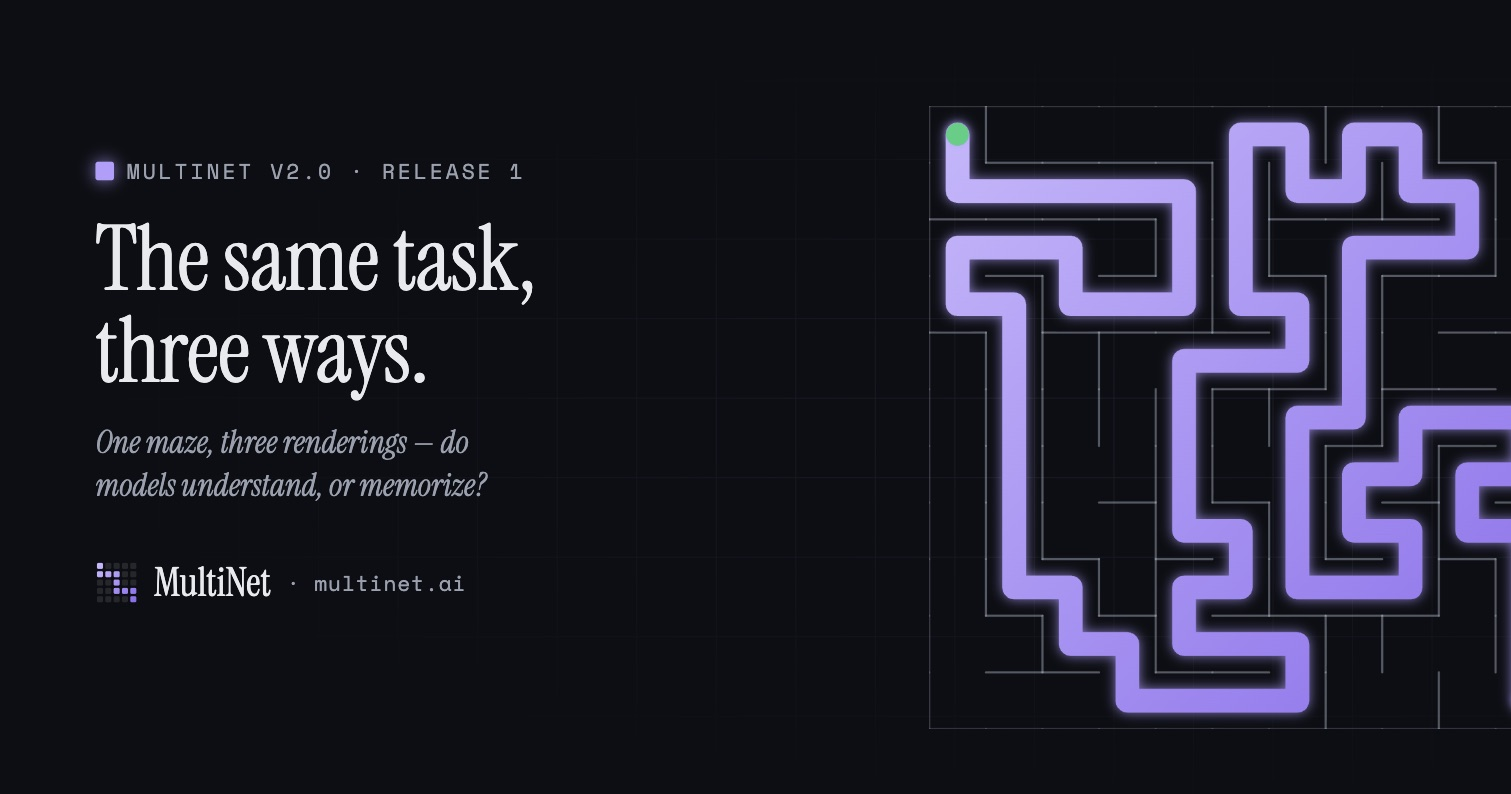
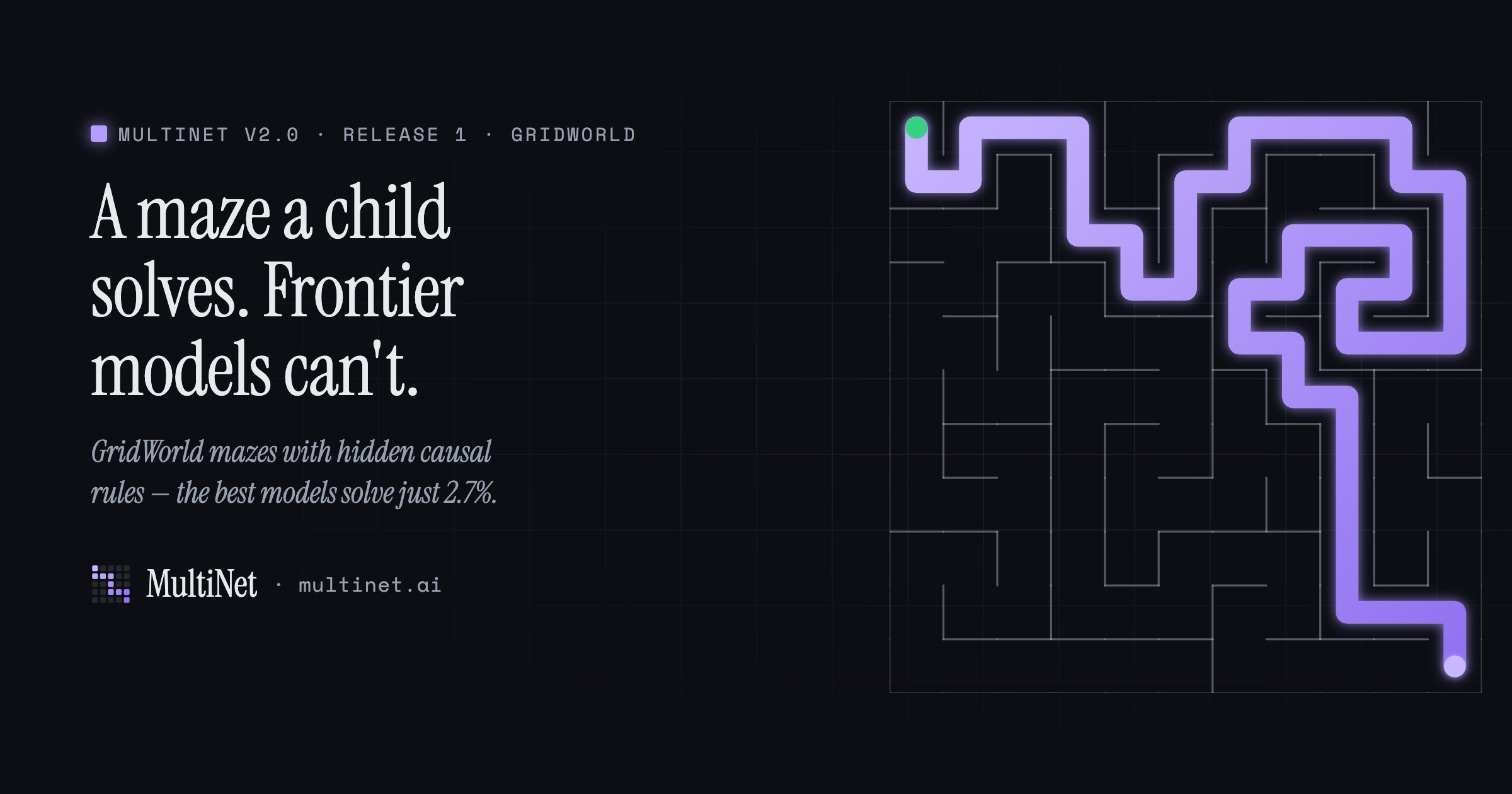
Content changes

diff --git a/index.html b/index.html
@@ -24,20 +24,20 @@
   <meta name="viewport" content="width=device-width, initial-scale=1">
 
   <!-- Social / OG -->
-  <meta name="description" content="MultiNet v2.0 is an open benchmark that renders the same task across a grid, natural language, and 3D — measuring whether models understand a task or just memorized one interface.">
-  <meta property="og:title" content="MultiNet v2.0 — The same task, three ways"/>
-  <meta property="og:description" content="An open benchmark for multimodal, long-horizon, cross-domain action. The same maze, rendered three ways — and frontier models fall apart."/>
+  <meta name="description" content="MultiNet v2.0 Release 1: frontier models solve just 4% of simple GridWorld mazes — puzzles that reward spatial reasoning, causal understanding, and long-horizon planning.">
+  <meta property="og:title" content="MultiNet v2.0 · Release 1 — a maze a child solves, frontier models can't"/>
+  <meta property="og:description" content="In Release 1, frontier models solve just 4% of simple GridWorld mazes a child breezes through — an open benchmark for long-horizon, causal, spatial reasoning."/>
   <meta property="og:url" content="https://multinet.ai/"/>
   <meta property="og:image" content="https://multinet.ai/static/images/og-multinet-v2.jpg"/>
   <meta property="og:image:width" content="1200"/>
   <meta property="og:image:height" content="630"/>
-  <meta name="twitter:title" content="MultiNet v2.0 — The same task, three ways">
-  <meta name="twitter:description" content="An open benchmark for multimodal, long-horizon, cross-domain action. The same maze, rendered three ways — and frontier models fall apart.">
+  <meta name="twitter:title" content="MultiNet v2.0 · Release 1 — a maze a child solves, frontier models can't">
+  <meta name="twitter:description" content="In Release 1, frontier models solve just 4% of simple GridWorld mazes a child breezes through — an open benchmark for long-horizon, causal, spatial reasoning.">
   <meta name="twitter:image" content="https://multinet.ai/static/images/og-multinet-v2.jpg">
   <meta name="twitter:card" content="summary_large_image">
   <meta name="keywords" content="MultiNet, benchmark, multimodal, cross-domain, action models, VLA, VLM, evaluation, generalization, maze, causal reasoning">
 
-  <title>MultiNet v2.0 — The same task, three ways</title>
+  <title>MultiNet v2.0 — Release 1</title>
   <link rel="icon" type="image/png" href="/static/images/favicon-maze.png">
   <link rel="stylesheet" href="/static/css/mn-v2.css">
 </head>
@@ -48,14 +48,14 @@
   <!-- ============================ HERO ============================ -->
   <header class="mn-hero">
     <div class="mn-hero__inner">
-      <p class="mn-tag">MultiNet v2.0 · Release 1</p>
-      <h1 style="max-width:16ch;margin-top:.3em">The same task, three ways — and frontier models fall apart.</h1>
-      <p class="mn-prose" style="margin-top:.2em"><span style="color:var(--mn-text)">A maze a child solves in seconds.</span> MultiNet renders the identical task across a grid, natural language, and 3D — then measures whether a model actually understands the task, or just memorized one way of seeing it.</p>
+      <p class="mn-tag">MultiNet v2.0 · Release 1 — GridWorld</p>
+      <h1 style="max-width:15ch;margin-top:.3em">A maze a child solves in seconds. Frontier models can't.</h1>
+      <p class="mn-prose" style="margin-top:.2em">Release 1 drops frontier models into <span style="color:var(--mn-text)">GridWorld</span> — symbolic mazes with hidden causal rules that reward real spatial reasoning and long-horizon planning. Puzzles people breeze through, and the strongest models solve just 4 of 150.</p>
 
       <div class="mn-stat">
-        <p class="mn-eyebrow">Frontier models solve just</p>
-        <div class="mn-stat__num">24%</div>
-        <p class="mn-eyebrow">of these mazes &middot; illustrative placeholder — the real R1 figure lands on release</p>
+        <p class="mn-eyebrow">Frontier models score just</p>
+        <div class="mn-stat__num mn-countup" data-to="2.7" data-decimals="1" data-suffix="%">0.0%</div>
+        <p class="mn-eyebrow">on Release 1's GridWorld mazes</p>
       </div>
 
       <div style="display:flex;gap:12px;margin:26px 0 22px;flex-wrap:wrap">
@@ -70,6 +70,12 @@
         <a href="#">[ Play the Maze ]</a>
         <a href="#cite">[ Cite ]</a>
       </div>
+
+      <div class="mn-reel" style="margin-top:38px">
+        <div class="mn-reel__play"></div>
+        <p class="mn-tag is-red" style="margin:0">Failure replay reel</p>
+        <p style="max-width:46ch;margin:0;color:var(--mn-text-dim)">Frontier models failing R1 mazes in revealing ways — the reel lands with the release.</p>
+      </div>
     </div>
   </header>
 
@@ -77,30 +83,29 @@
   <section class="mn-section">
     <div class="mn-container mn-reveal">
       <div class="mn-sec-head">
-        <p class="mn-tag is-blue">Benchmark · v2.0</p>
-        <h2>One task. Three renderings. Nowhere to hide.</h2>
-        <p class="mn-lead">Every problem in MultiNet v2.0 is the same underlying maze — with hidden causal mechanisms a model must discover to solve it. We render that maze across three interfaces. A model that truly understands the task should solve all three; a model leaning on a memorized format solves one and collapses on the rest.</p>
+        <p class="mn-tag is-blue">Release 1 · GridWorld</p>
+        <h2>Simple mazes. Hidden rules.</h2>
+        <p class="mn-lead">Each R1 maze is a GridWorld puzzle governed by hidden causal mechanisms — switches that open walls, keys that gate doors, effects that fire at a distance. Solving one takes genuine spatial reasoning and long-horizon planning, not pattern-matching. A child manages it; frontier models mostly don't.</p>
       </div>
 
+      <p class="mn-prose" style="color:var(--mn-text-dim);margin-bottom:18px">Release 1 covers GridWorld. The full v2.0 will render the <em>same task</em> three ways — so a model that only memorized one interface has nowhere to hide:</p>
       <div class="mn-grid mn-grid--3">
         <div class="mn-card">
-          <p class="mn-tag is-blue">Domain 01</p>
-          <h3>GridWorld</h3>
-          <p>The maze as a symbolic grid of cells, walls, and switches. Pure spatial reasoning — no rendering, no language, just the structure of the problem.</p>
+          <p class="mn-tag is-blue">GridWorld · Release 1</p>
+          <h3>Symbolic grid</h3>
+          <p>The maze as a grid of cells, walls, and switches. Pure spatial reasoning — no rendering, no language, just the structure of the problem.</p>
         </div>
-        <div class="mn-card">
-          <p class="mn-tag is-green">Domain 02</p>
-          <h3>Natural Language</h3>
-          <p>The same maze described in text. The model must build and hold a spatial model of the world from a narrative it reads step by step.</p>
+        <div class="mn-card" style="opacity:.7">
+          <p class="mn-tag is-green">Natural Language · Coming</p>
+          <h3>Described in text</h3>
+          <p>The same maze in prose. The model must build and hold a spatial model of the world from a narrative it reads step by step.</p>
         </div>
-        <div class="mn-card">
-          <p class="mn-tag is-purple">Domain 03</p>
-          <h3>3D</h3>
-          <p>The maze as a first-person 3D environment. Perception, navigation, and the same causal mechanics — now grounded in pixels and movement.</p>
+        <div class="mn-card" style="opacity:.7">
+          <p class="mn-tag is-purple">3D · Coming</p>
+          <h3>First-person 3D</h3>
+          <p>The same maze as a 3D environment. Perception, navigation, and the same causal mechanics — grounded in pixels and movement.</p>
         </div>
       </div>
-
-      <p class="mn-prose" style="margin-top:26px;color:var(--mn-text-dim)"><strong style="color:var(--mn-text);font-weight:600">Release 1 focuses on GridWorld</strong> — the cleanest place to establish the methodology, difficulty axes, and evaluation protocol. Natural language and 3D follow, culminating in the full three-domain benchmark and generator.</p>
     </div>
   </section>
 
@@ -146,29 +151,31 @@
     </div>
   </section>
 
-  <!-- ==================== RELEASES TIMELINE ==================== -->
+  <!-- ==================== RELEASES LINEAGE ==================== -->
   <section class="mn-section" style="padding-top:0">
     <div class="mn-container mn-reveal">
       <div class="mn-sec-head">
-        <p class="mn-tag">Roadmap</p>
-        <h2>The v2.0 release plan</h2>
-        <p class="mn-lead">v2.0 ships in stages — methodology first, then the full cross-domain benchmark. Dates are provisional.</p>
+        <p class="mn-tag">Releases</p>
+        <h2>The MultiNet lineage</h2>
+        <p class="mn-lead">Four releases sharpening one question — how well do models generalize when the task leaves their comfort zone. v2.0 is the current benchmark.</p>
       </div>
-      <div class="mn-timeline">
-        <div class="mn-tl">
-          <div class="mn-tl__when">Aug 2026<br><span class="mn-chip mn-chip--now">Up next</span></div>
-          <div class="mn-tl__body">
-            <h3>Release 1 — GridWorld</h3>
-            <p>The symbolic-grid domain, difficulty axes, and evaluation protocol — the methodological foundation for everything that follows. Warm-up write-up, failure replay reel, and a human-playable maze.</p>
-          </div>
-        </div>
-        <div class="mn-tl">
-          <div class="mn-tl__when">Sep 2026<br><span class="mn-chip mn-chip--next">Planned</span></div>
-          <div class="mn-tl__body">
-            <h3>Release 3 — Full cross-domain benchmark</h3>
-            <p>All three domains (GridWorld, natural language, 3D), the task generator, and the cross-domain paper — the complete v2.0 benchmark.</p>
-          </div>
-        </div>
+      <div class="mn-lineage">
+        <a class="mn-lineage__node c-red" href="/static/pages/Multinetv01.html">
+          <span class="mn-lineage__v">v0.1</span><span class="mn-lineage__name">Robotics</span>
+          <span class="mn-lineage__tag">Real-world control</span>
+        </a>
+        <a class="mn-lineage__node c-amber" href="/static/pages/Multinetv02.html">
+          <span class="mn-lineage__v">v0.2</span><span class="mn-lineage__name">Gameplay</span>
+          <span class="mn-lineage__tag">OOD environments</span>
+        </a>
+        <a class="mn-lineage__node c-green" href="/static/pages/Multinetv1.html">
+          <span class="mn-lineage__v">v1.0</span><span class="mn-lineage__name">Generalist</span>
+          <span class="mn-lineage__tag">VLM · VLA · generalist</span>
+        </a>
+        <a class="mn-lineage__node c-blue is-current" href="/static/pages/Multinetv2.html">
+          <span class="mn-lineage__v">v2.0</span><span class="mn-lineage__name">Cross-domain Action</span>
+          <span class="mn-lineage__tag">Current · R1</span>
+        </a>
       </div>
     </div>
   </section>

diff --git a/static/pages/Multinetv2.html b/static/pages/Multinetv2.html
@@ -17,18 +17,18 @@
 
   <meta charset="utf-8">
   <meta name="viewport" content="width=device-width, initial-scale=1">
-  <meta name="description" content="MultiNet v2.0 renders one task — a maze with hidden causal mechanisms — across a symbolic grid, natural language, and 3D, testing whether models understand a task or just one interface. Release 1 covers GridWorld.">
-  <meta property="og:title" content="MultiNet v2.0 — The same task, three ways"/>
-  <meta property="og:description" content="One task with hidden causal structure, rendered across a grid, natural language, and 3D. A benchmark built to resist contamination and saturation."/>
+  <meta name="description" content="MultiNet v2.0 Release 1: GridWorld mazes with hidden causal mechanisms that demand spatial reasoning and long-horizon planning. Frontier models solve just 2.7%.">
+  <meta property="og:title" content="MultiNet v2.0 · Release 1 — GridWorld"/>
+  <meta property="og:description" content="Release 1 puts frontier models in GridWorld — simple mazes with hidden causal rules. They solve just 2.7%. A benchmark built to resist contamination and saturation."/>
   <meta property="og:url" content="https://multinet.ai/static/pages/Multinetv2.html"/>
   <meta property="og:image" content="https://multinet.ai/static/images/og-multinet-v2.jpg"/>
   <meta property="og:image:width" content="1200"/>
   <meta property="og:image:height" content="630"/>
   <meta name="twitter:card" content="summary_large_image">
-  <meta name="twitter:title" content="MultiNet v2.0 — The same task, three ways">
+  <meta name="twitter:title" content="MultiNet v2.0 · Release 1 — GridWorld">
   <meta name="twitter:image" content="https://multinet.ai/static/images/og-multinet-v2.jpg">
 
-  <title>MultiNet v2.0 — The same task, three ways</title>
+  <title>MultiNet v2.0 — Release 1 (GridWorld)</title>
   <link rel="icon" type="image/png" href="/static/images/favicon-maze.png">
   <link rel="stylesheet" href="/static/css/mn-v2.css">
 </head>
@@ -40,9 +40,9 @@
   <!-- ============================ HERO ============================ -->
   <header class="mn-hero">
     <div class="mn-hero__inner">
-      <p class="mn-tag">v2.0 · Release 1</p>
-      <h1 style="max-width:15ch;margin-top:.3em">The same task, three ways.</h1>
-      <p class="mn-prose" style="margin-top:.2em">MultiNet v2.0 is built around a single idea: take one task with hidden causal structure — a maze — and render it across a symbolic grid, natural language, and 3D. A model that understands the task solves all three. A model leaning on a memorized interface solves one and collapses on the rest.</p>
+      <p class="mn-tag">v2.0 · Release 1 — GridWorld</p>
+      <h1 style="max-width:16ch;margin-top:.3em">Simple mazes that break frontier models.</h1>
+      <p class="mn-prose" style="margin-top:.2em">Release 1 puts frontier models in GridWorld: mazes with hidden causal structure that demand real spatial reasoning and long-horizon planning — the kind a child solves in seconds. The strongest models solve just <span style="color:var(--mn-text)">2.7%</span>. It's the first domain of MultiNet v2.0, whose full benchmark will render the same task several ways.</p>
       <div class="mn-artifacts" style="margin-top:24px">
         <a href="/static/pdfs/An Open-Source Software Toolkit & Benchmark Suite for the Evaluation and Adaptation of Multimodal Action Models.pdf" target="_blank" rel="noopener">[ Paper ]</a>
         <a href="https://github.com/ManifoldRG/MultiNet" target="_blank" rel="noopener">[ Code ]</a>
@@ -57,25 +57,26 @@
     <div class="mn-container mn-reveal">
       <div class="mn-sec-head">
         <p class="mn-tag is-blue">The idea</p>
-        <h2>One maze, hidden rules, three interfaces.</h2>
-        <p class="mn-lead">Every instance is the same underlying maze, governed by causal mechanisms a model must discover to solve it — switches that open walls, keys that gate doors, effects that fire at a distance. We then render that identical structure three ways. Because the task is held constant and only the interface changes, cross-domain performance isolates a single question: does the model understand the problem, or just a familiar way of seeing it?</p>
+        <h2>One maze. Hidden rules.</h2>
+        <p class="mn-lead">Every R1 instance is a GridWorld maze governed by causal mechanisms a model must discover to solve it — switches that open walls, keys that gate doors, effects that fire at a distance. Because the task holds real spatial and long-horizon structure, performance isolates a single question: does the model understand the problem, or just pattern-match its way through?</p>
       </div>
 
+      <p class="mn-prose" style="color:var(--mn-text-dim);margin-bottom:18px">R1 covers GridWorld. The full v2.0 will render the <em>same task</em> three ways — so a model that only memorized one interface has nowhere to hide:</p>
       <div class="mn-grid mn-grid--3">
         <div class="mn-card">
-          <p class="mn-tag is-blue">Domain 01</p>
-          <h3>GridWorld</h3>
-          <p>The maze as a symbolic grid of cells, walls, and switches. Pure spatial reasoning — no rendering, no language, just the structure of the problem.</p>
+          <p class="mn-tag is-blue">GridWorld · Release 1</p>
+          <h3>Symbolic grid</h3>
+          <p>The maze as a grid of cells, walls, and switches. Pure spatial reasoning — no rendering, no language, just the structure of the problem.</p>
         </div>
-        <div class="mn-card">
-          <p class="mn-tag is-green">Domain 02</p>
-          <h3>Natural Language</h3>
-          <p>The same maze described in text. The model must build and hold a spatial model of the world from a narrative it reads step by step.</p>
+        <div class="mn-card" style="opacity:.7">
+          <p class="mn-tag is-green">Natural Language · Coming</p>
+          <h3>Described in text</h3>
+          <p>The same maze in prose. The model must build and hold a spatial model of the world from a narrative it reads step by step.</p>
         </div>
-        <div class="mn-card">
-          <p class="mn-tag is-purple">Domain 03</p>
-          <h3>3D</h3>
-          <p>The maze as a first-person 3D environment. Perception, navigation, and the same causal mechanics — now grounded in pixels and movement.</p>
+        <div class="mn-card" style="opacity:.7">
+          <p class="mn-tag is-purple">3D · Coming</p>
+          <h3>First-person 3D</h3>
+          <p>The same maze as a 3D environment. Perception, navigation, and the same causal mechanics — grounded in pixels and movement.</p>
         </div>
       </div>
     </div>
@@ -103,7 +104,7 @@
         <div class="mn-card">
           <p class="mn-tag is-purple">Cross-domain by construction</p>
           <h3>Memorization has nowhere to hide</h3>
-          <p>The same task rendered three ways turns "did it generalize?" into a direct, measurable comparison rather than an inference.</p>
+          <p>Rendering the same task several ways will turn "did it generalize?" into a direct, measurable comparison rather than an inference.</p>
         </div>
         <div class="mn-card">
           <p class="mn-tag is-cyan">Human-anchored</p>
@@ -146,6 +147,22 @@
       <div class="mn-plot">
         <p class="mn-eyebrow">Figure &middot; Success rate per model · GridWorld R1</p>
         <p style="max-width:32ch;margin:0;color:var(--mn-text-dim)">Chart lands with the R1 release.</p>
+      </div>
+    </div>
+  </section>
+
+  <!-- ==================== FAILURE REEL ==================== -->
+  <section class="mn-section" style="padding-top:0">
+    <div class="mn-container mn-reveal">
+      <div class="mn-sec-head">
+        <p class="mn-tag is-red">Failure replay</p>
+        <h2>Watch them break.</h2>
+        <p class="mn-lead">Replays of frontier models failing R1 mazes in revealing ways — the kind of long-horizon, causal mistakes a person wouldn't make. The reel lands with the release.</p>
+      </div>
+      <div class="mn-reel">
+        <div class="mn-reel__play"></div>
+        <p class="mn-tag is-red" style="margin:0">Failure replay reel</p>
+        <p style="max-width:46ch;margin:0;color:var(--mn-text-dim)">Embedded reel lands with R1.</p>
       </div>
     </div>
   </section>

diff --git a/static/css/mn-v2.css b/static/css/mn-v2.css
@@ -241,6 +241,40 @@
   padding: 20px 22px; overflow-x: auto; }
 .mn-code pre { margin: 0; font-family: var(--mn-font-mono); font-size: .82rem; line-height: 1.6; color: var(--mn-text-dim); white-space: pre; }
 
+/* Releases lineage ribbon (v0.1 -> v2.0) */
+.mn-lineage { display: grid; grid-template-columns: repeat(4, 1fr); gap: 18px; margin-top: 8px; }
+.mn-lineage__node { display: block; position: relative; padding-top: 26px; border-top: 2px solid var(--mn-line);
+  transition: border-color .18s ease, transform .18s ease; }
+.mn-lineage__node::before { content: ""; position: absolute; top: -8px; left: 0; width: 13px; height: 13px;
+  border-radius: 50%; background: var(--mn-bg); border: 2px solid var(--mn-line); transition: all .18s ease; }
+.mn-lineage__node:hover { transform: translateY(-2px); border-top-color: var(--mn-text-dim); }
+.mn-lineage__v { display: block; font-family: var(--mn-font-mono); font-size: .82rem; letter-spacing: .06em; color: var(--mn-text); }
+.mn-lineage__name { display: block; font-family: var(--mn-font-display); font-size: 1.3rem; color: var(--mn-text); margin-top: 2px; }
+.mn-lineage__tag { display: block; font-family: var(--mn-font-mono); font-size: .68rem; letter-spacing: .08em;
+  text-transform: uppercase; color: var(--mn-text-dim); margin-top: 8px; }
+.mn-lineage__node.c-red::before   { border-color: var(--mn-c-red); }
+.mn-lineage__node.c-amber::before { border-color: var(--mn-c-amber); }
+.mn-lineage__node.c-green::before { border-color: var(--mn-c-green); }
+.mn-lineage__node.c-blue::before  { border-color: var(--mn-c-blue); }
+.mn-lineage__node.is-current { border-top-color: var(--mn-c-blue); }
+.mn-lineage__node.is-current::before { background: var(--mn-c-blue); border-color: var(--mn-c-blue); box-shadow: 0 0 12px rgba(76,154,255,.6); }
+
+/* Failure replay reel placeholder */
+.mn-reel { border: 1px dashed var(--mn-line); border-radius: var(--mn-radius); background: var(--mn-bg-2);
+  min-height: 340px; display: flex; flex-direction: column; align-items: center; justify-content: center;
+  gap: 14px; text-align: center; position: relative; overflow: hidden; padding: 40px; }
+.mn-reel::before { content: ""; position: absolute; inset: 0; pointer-events: none; opacity: .5;
+  background-image: linear-gradient(var(--mn-line) 1px, transparent 1px),
+                    linear-gradient(90deg, var(--mn-line) 1px, transparent 1px);
+  background-size: 40px 40px;
+  -webkit-mask-image: radial-gradient(ellipse at 50% 50%, #000 10%, transparent 70%);
+          mask-image: radial-gradient(ellipse at 50% 50%, #000 10%, transparent 70%); }
+.mn-reel > * { position: relative; }
+.mn-reel__play { width: 62px; height: 62px; border-radius: 50%; border: 1px solid var(--mn-line);
+  background: var(--mn-bg-3); display: flex; align-items: center; justify-content: center; }
+.mn-reel__play::after { content: ""; width: 0; height: 0; border-style: solid; border-width: 10px 0 10px 16px;
+  border-color: transparent transparent transparent var(--mn-primary); margin-left: 5px; }
+
 /* Collaborator logos (grayscale -> color on hover) */
 .mn-logos { display: flex; flex-wrap: wrap; gap: 16px; align-items: center; margin: 6px 0 34px; }
 .mn-logochip { display: inline-flex; align-items: center; justify-content: center; height: 66px; padding: 0 24px;
@@ -285,6 +319,7 @@
     background: var(--mn-bg); border-bottom: 1px solid var(--mn-line); padding: 8px 28px 16px; }
   .mn-nav__toggle { display: inline-flex; }
   .mn-grid--3, .mn-grid--2 { grid-template-columns: 1fr; }
+  .mn-lineage { grid-template-columns: repeat(2, 1fr); }
   .mn-feature { grid-template-columns: 1fr; }
   .mn-tl { grid-template-columns: 1fr; gap: 8px; }
   .mn-news__item { grid-template-columns: 1fr; gap: 4px; }

diff --git a/static/js/mn-shell.js b/static/js/mn-shell.js
@@ -116,6 +116,42 @@
     var links = document.querySelector(".mn-nav__links");
     if (toggle && links) toggle.addEventListener("click", function () { links.classList.toggle("is-open"); });
 
+    // count-up on headline numbers (.mn-countup with data-to / data-suffix)
+    var reduce = window.matchMedia && window.matchMedia("(prefers-reduced-motion: reduce)").matches;
+    document.querySelectorAll(".mn-countup").forEach(function (el) {
+      var to = parseFloat(el.getAttribute("data-to")) || 0, suffix = el.getAttribute("data-suffix") || "";
+      var dec = parseInt(el.getAttribute("data-decimals") || "0", 10);
+      if (reduce) { el.textContent = to.toFixed(dec) + suffix; return; }
+      var run = function () {
+        var start = null, dur = 1200;
+        function step(ts) { if (!start) start = ts; var p = Math.min((ts - start) / dur, 1);
+          el.textContent = (to * (1 - Math.pow(1 - p, 3))).toFixed(dec) + suffix;
+          if (p < 1) requestAnimationFrame(step); }
+        requestAnimationFrame(step);
+      };
+      if ("IntersectionObserver" in window) {
+        var cio = new IntersectionObserver(function (es) {
+          es.forEach(function (e) { if (e.isIntersecting) { run(); cio.unobserve(e.target); } });
+        });
+        cio.observe(el);
+      } else run();
+    });
+
+    // analytics: CTA / artifact / maze click events (PostHog + GA)
+    function track(name, props) {
+      try { if (window.posthog && posthog.capture) posthog.capture(name, props); } catch (e) {}
+      try { if (window.gtag) gtag("event", name, props); } catch (e) {}
+    }
+    document.addEventListener("click", function (e) {
+      var a = e.target.closest && e.target.closest("a.mn-btn, .mn-artifacts a, a.mn-feature__block, .mn-nav__link, .mn-tab, .mn-logochip");
+      if (!a) return;
+      var label = (a.textContent || "").trim().replace(/\s+/g, " ").slice(0, 60);
+      var href = a.getAttribute("href") || "";
+      var isMaze = /play the maze/i.test(label) || /maze/i.test(href);
+      track(isMaze ? "play_maze_click" : "cta_click",
+        { label: label, href: href, page: document.body.getAttribute("data-mn-page") || "" });
+    });
+
     // scroll-reveal
     var reveals = document.querySelectorAll(".mn-reveal");
     if (reveals.length && "IntersectionObserver" in window) {

diff --git a/static/pages/Multinet.html b/static/pages/Multinet.html
@@ -83,8 +83,8 @@
       <div class="mn-grid mn-grid--2">
         <a class="mn-card" href="/static/pages/Multinetv2.html">
           <p class="mn-tag is-blue">v2.0 · Cross-domain Action</p>
-          <h3>The same task, three ways</h3>
-          <p>One maze with hidden causal mechanisms, rendered across a grid, natural language, and 3D. Built to resist contamination and saturation. <span style="color:var(--mn-primary)">Release 1 →</span></p>
+          <h3>Simple mazes, hidden rules</h3>
+          <p>GridWorld mazes with hidden causal rules that demand spatial and long-horizon reasoning — frontier models solve just 2.7%. Release 1 is the first domain of v2.0. <span style="color:var(--mn-primary)">Read R1 →</span></p>
         </a>
         <a class="mn-card" href="/static/pages/Multinetv1.html">
           <p class="mn-tag is-green">v1.0 · Generalist</p>
